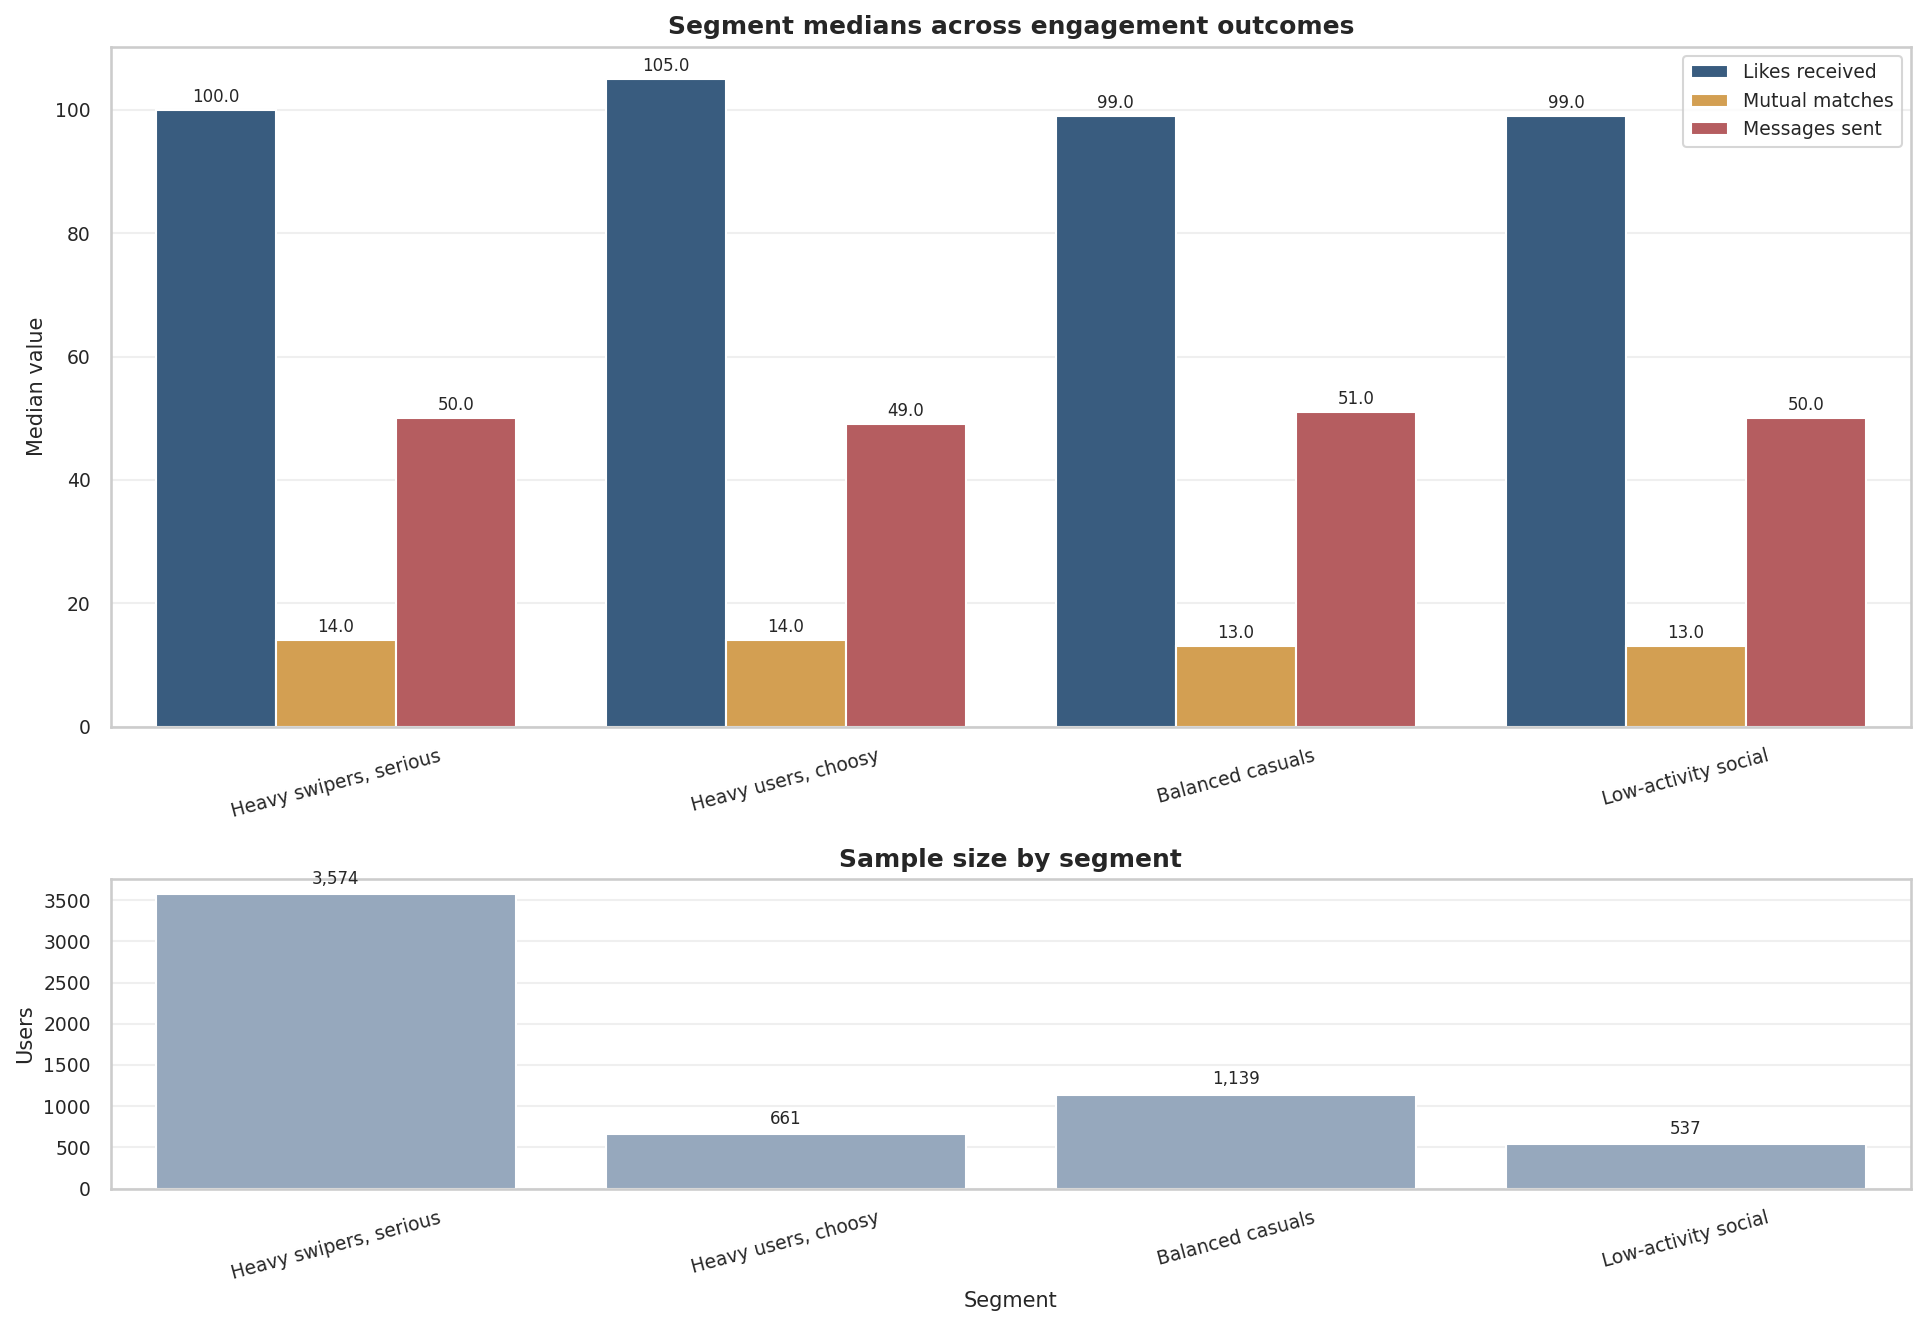
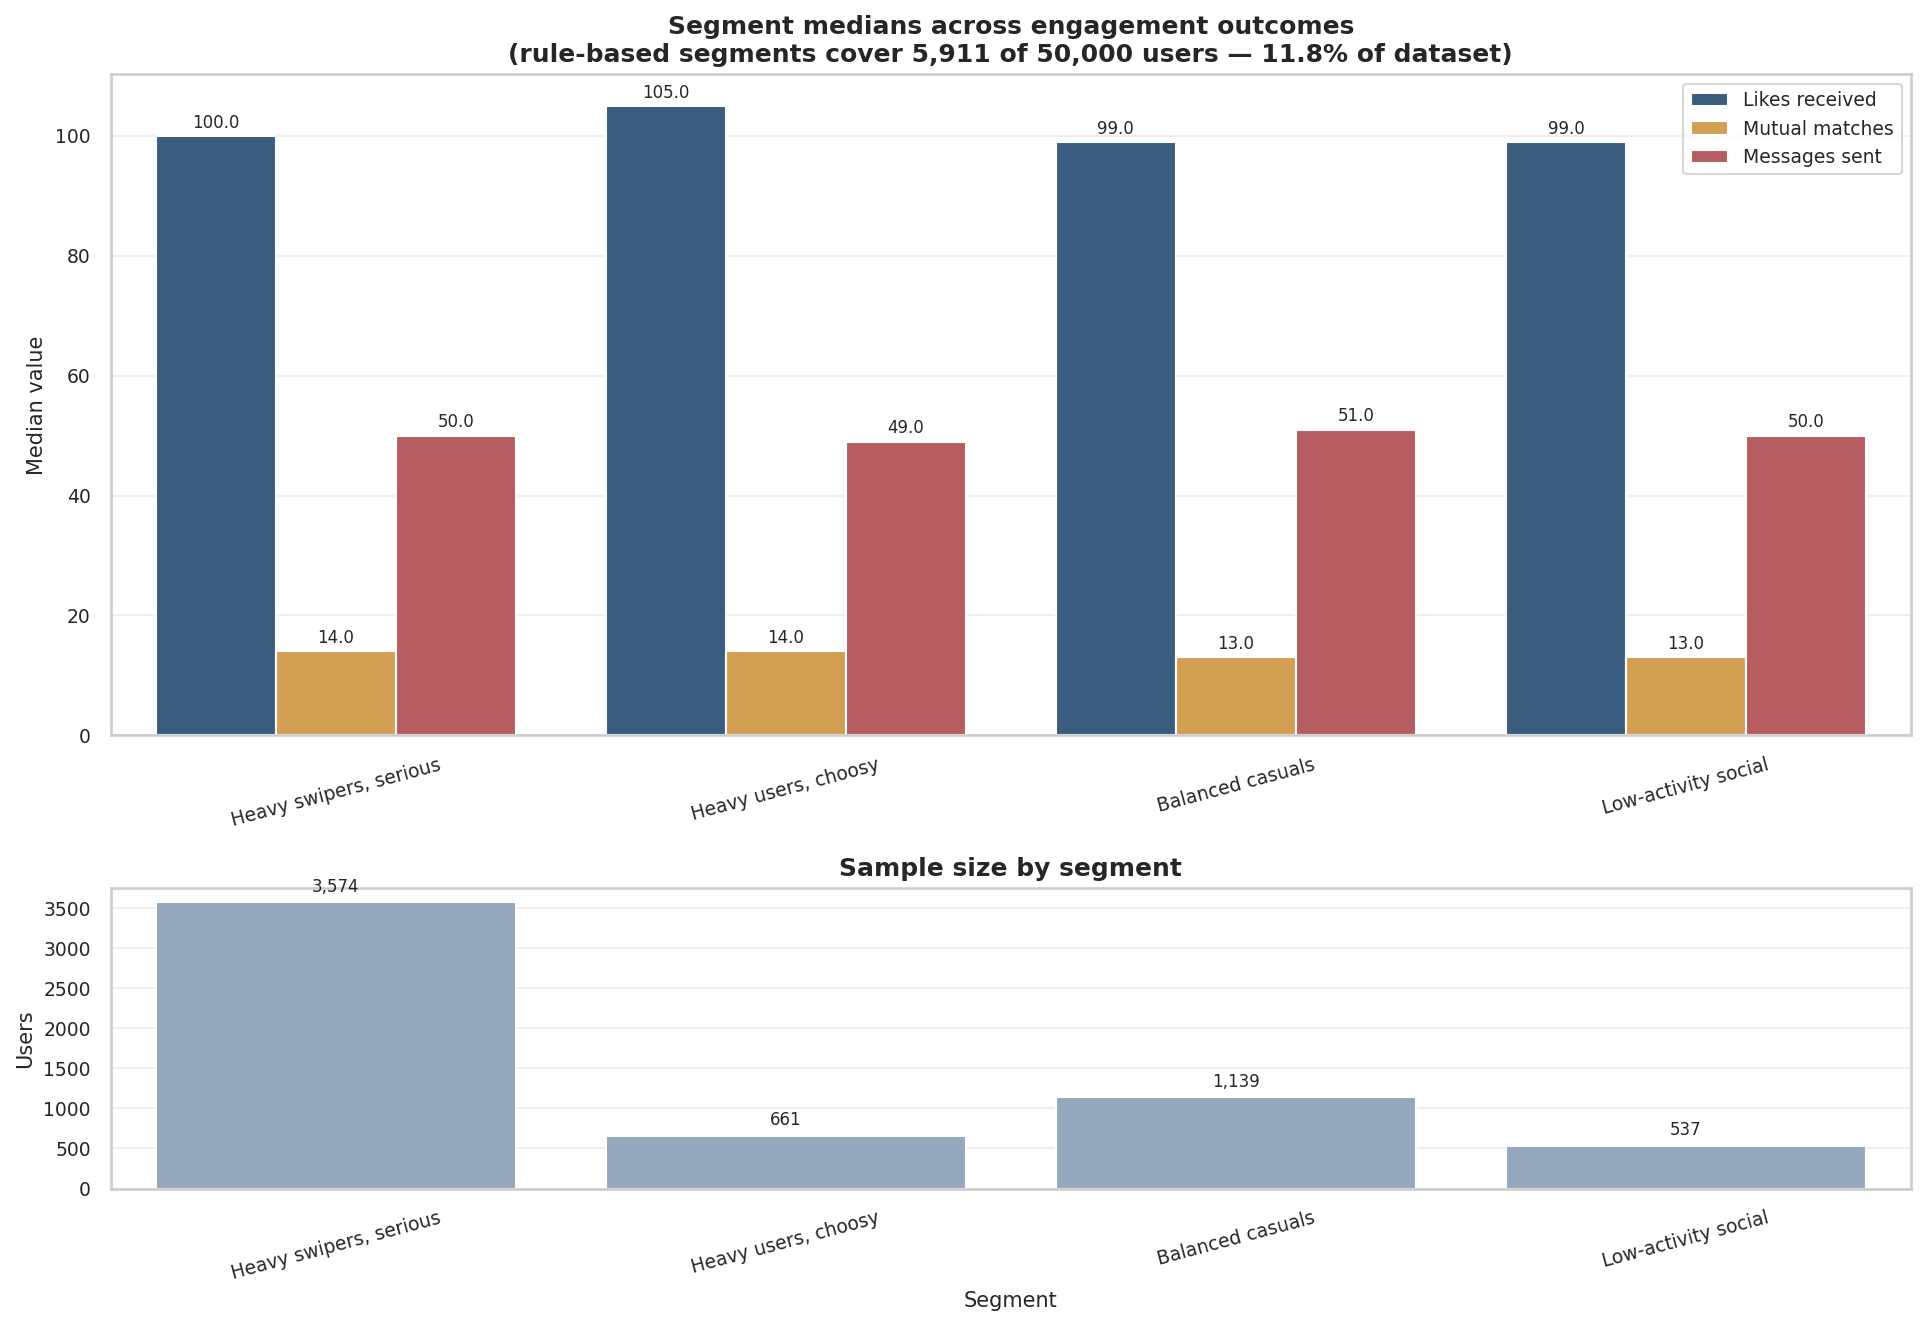
results: regenerate figures and reports after code review fixes
scripts/01_eda.py changes reflected:
- Fig 08 (segment grouped bars) now shows dataset coverage percentage
  in title: rule-based segments cover 5,911 of 50,000 users (11.8%)
- All 9 EDA figures refreshed with Agg backend

scripts/02_signal_test.py changes reflected:
- BH-FDR now uses proper statsmodels multipletests(fdr_bh) — result
  unchanged (0/23 survive) but methodology is now correct
- Fig 10 (signal summary) title and annotation are fully dynamic
- signal_findings.md updated with proper BH-FDR wording and dynamic
  most-significant-feature reference (gender, p=0.0102)

diff --git a/reports/signal_findings.md b/reports/signal_findings.md
@@ -43,7 +43,7 @@ Random baseline: 0.100
 
 | Model | Train acc | Test acc |
 |---|---|---|
-| Logistic Regression | 0.111 | 0.097 |
+| Logistic Regression | 0.110 | 0.096 |
 | Random Forest (100) | 1.000 | 0.100 |
 | Gradient Boosting (50) | 0.191 | 0.104 |
 
@@ -61,9 +61,9 @@ Majority-class baseline: 0.401
 
 - Total tests performed: 11 chi-square + 12 ANOVA = **23 tests**
 - **Bonferroni** threshold (chi-square only): α/m = 0.05/11 = 0.00455
-  - gender (p=0.0102) > 0.00455 → **NOT significant after Bonferroni**
+  - Most significant chi-square feature: `gender` (p=0.0102) > 0.00455 → **NOT significant after Bonferroni**
   - Result: **0/11** categorical features survive Bonferroni correction
-- **Benjamini–Hochberg FDR** threshold (all 23 tests, q=0.05): rank-1 threshold = 0.05/23 ≈ 0.00217
+- **Benjamini–Hochberg FDR** (all 23 tests, q=0.05, via statsmodels multipletests):
   - Result: **0/23** features survive BH-FDR correction
 - **Corrected conclusion: zero of 23 feature–target univariate tests are statistically significant.**
   This is consistent with a synthetic data generator that samples each column independently.
